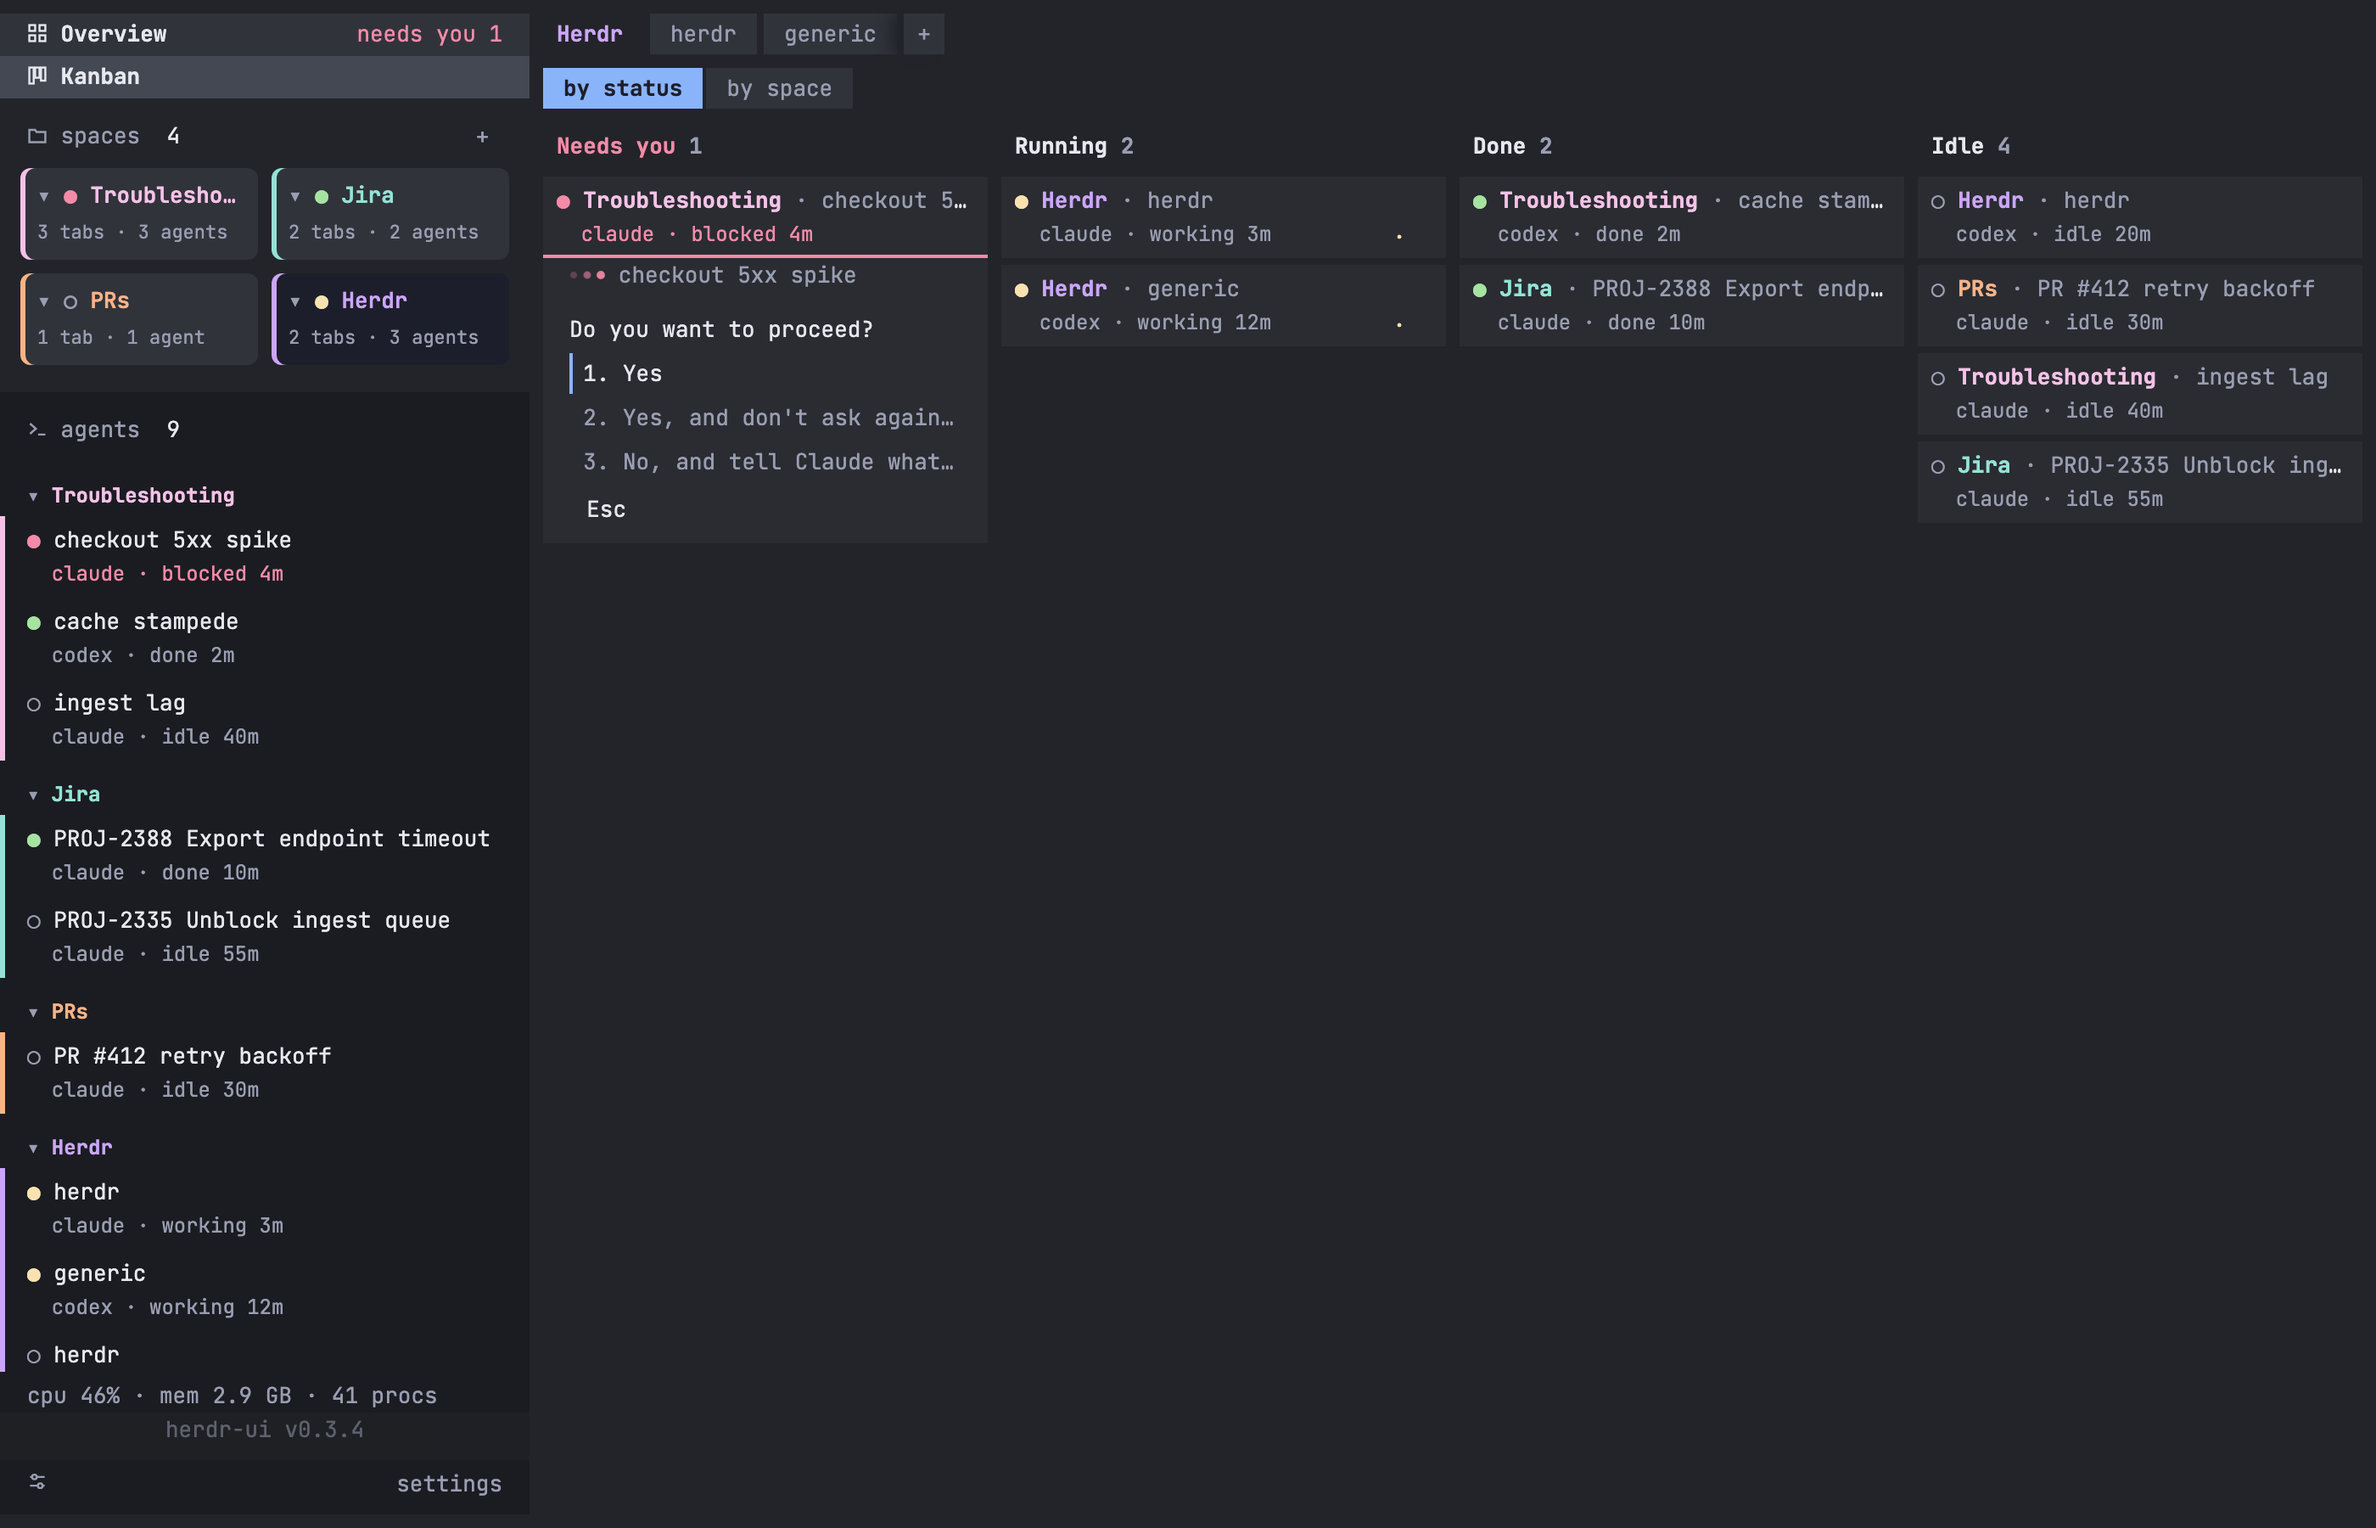
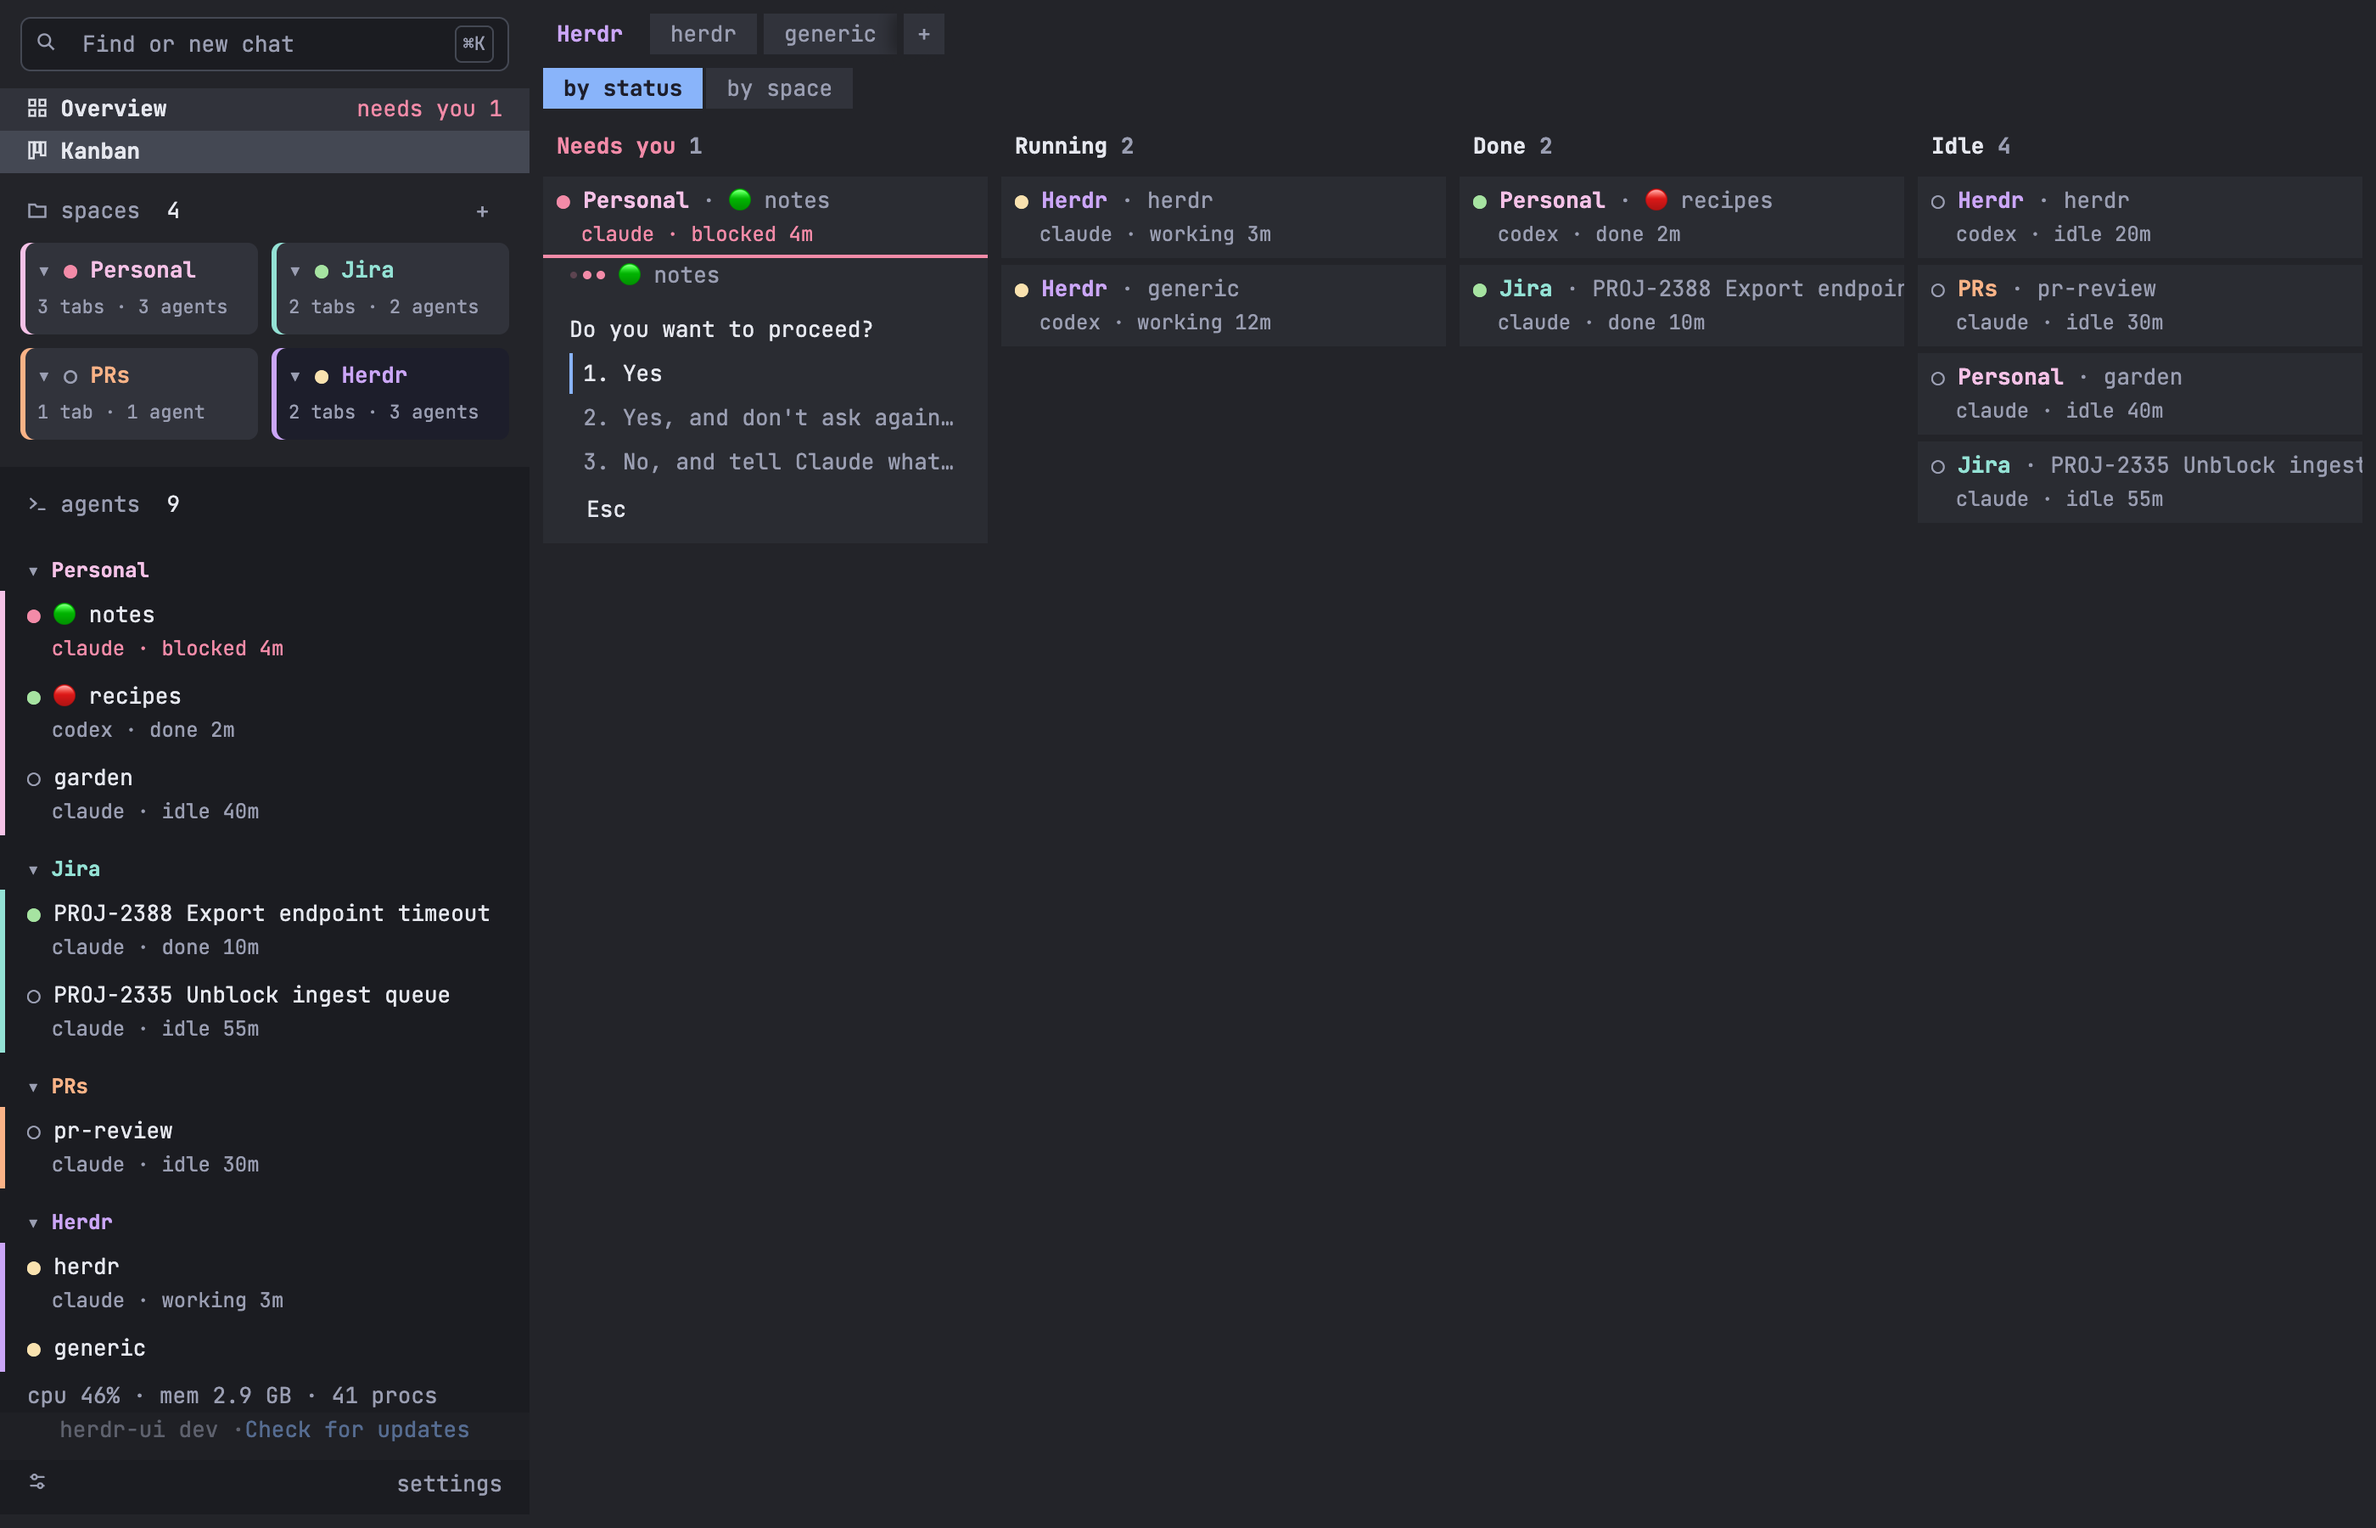
docs(herdr-ui): show the Find or new chat button in the screenshots and the ⌘K copy (#7)

diff --git a/herdr-ui/index.html b/herdr-ui/index.html
@@ -233,7 +233,7 @@ footer a:hover { color:var(--fg); }
         <div>
           <div class="icon"><svg viewBox="0 0 24 24"><circle cx="11" cy="11" r="7"/><path d="M21 21l-4.3-4.3"/></svg></div>
           <h2>Find anything with <span class="grad">⌘K</span></h2>
-          <p style="color:var(--body)">One search for every session and every repo. Type a few letters, press Enter.</p>
+          <p style="color:var(--body)">One search for every session and every repo. Press ⌘K or click Find at the top of the sidebar, type a few letters, press Enter.</p>
         </div>
         <div class="points">
           <div style="--c:var(--pink)"><b>Jump to a session</b>Search by space, tab, agent or folder. Enter opens the terminal, ready to type.</div>
